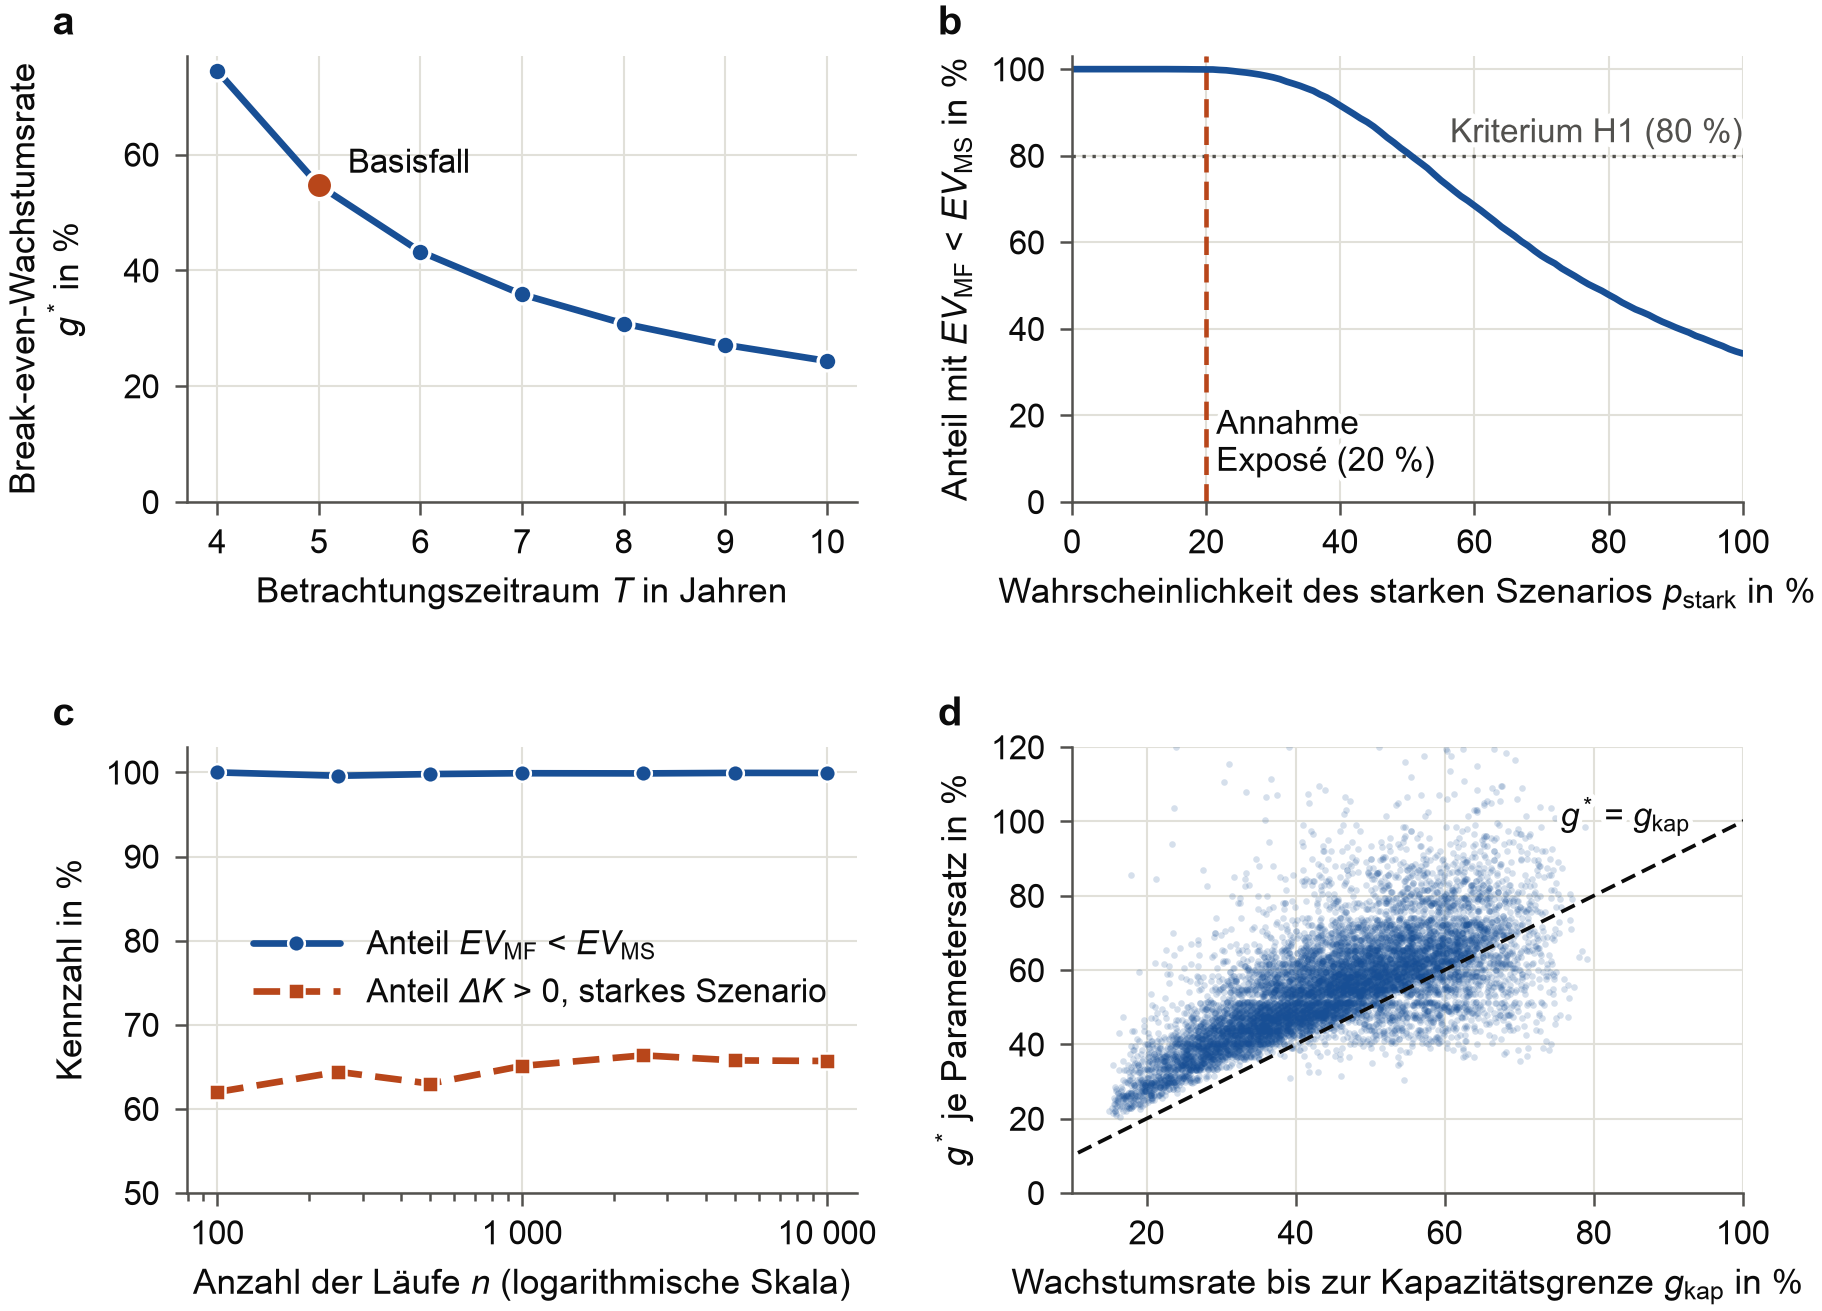
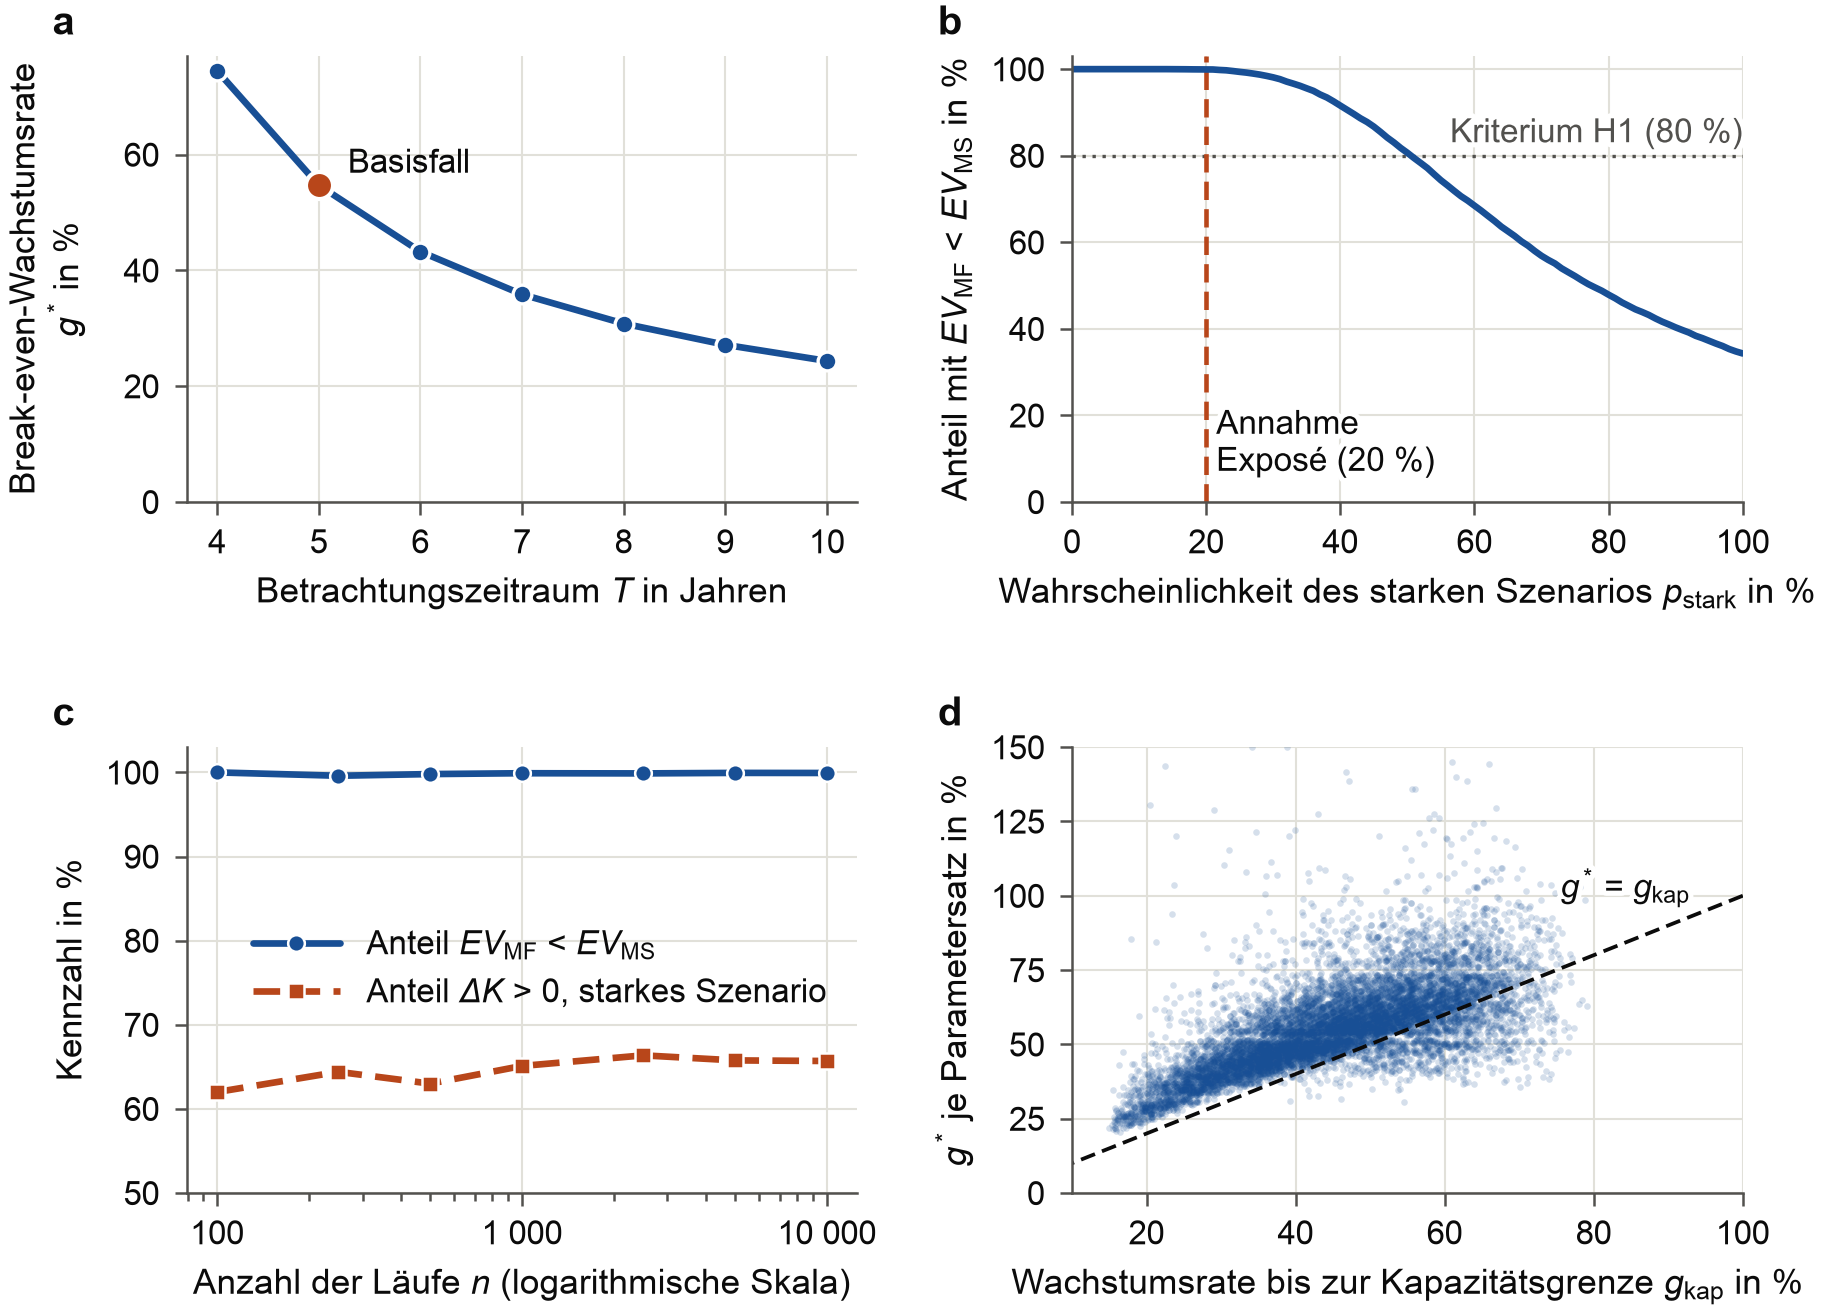
docs: v1.1.1 presentation fixes in tables, figure and documentation
- table captions and cells: full stops instead of semicolons, H2 interval
  named as Monte Carlo confidence interval, references to the full table
  of variants, macros for the base-case cost breakdown and the share
  amortising within ten years
- robustness figure panel d: y axis up to 150 %
- README, CHANGELOG, CITATION.cff and .zenodo.json for version 1.1.1

Model logic and all result data are unchanged (SHA256SUMS verified).

diff --git a/src/tables.py b/src/tables.py
@@ -132,7 +132,7 @@ def tab_szenarien(r):
   \centering
   \caption[Barwertige Gesamtkosten je Szenario]{{Barwertige Gesamtkosten je Szenario und
     szenariogewichtet (Median über {de(N_RUNS)} Parametersätze, Tsd.\,EUR).
-    $\Delta K = K_{{\mathrm{{MF}}}} - K_{{\mathrm{{MS}}}}$; positive Werte bedeuten einen
+    $\Delta K = K_{{\mathrm{{MF}}}} - K_{{\mathrm{{MS}}}}$. Positive Werte bedeuten einen
     Kostenvorteil von Microservices von Beginn.}}
   \label{{tab:szenarien}}
   \footnotesize
@@ -162,12 +162,12 @@ def tab_hypothesen(r):
         ("H1", r"Anteil der Parametersätze mit $EV_{\mathrm{MF}} < EV_{\mathrm{MS}}$ mindestens 80\,\%",
          f"{de(h['H1']['wert'], 2, True)}", h["H1"]["bestaetigt"]),
         ("H2", r"$P(\Delta K > 0 \mid g = 60\,\%)$ über 50\,\%",
-         f"{de(h['H2']['wert'], 1, True)} (95-\\%-Intervall {de(ci2['lo'], 1, True)} bis "
-         f"{de(ci2['hi'], 1, True)}); abhängig von Annahmen, siehe \\cref{{tab:robustheit}}",
+         f"{de(h['H2']['wert'], 1, True)} (95-\\%-Konfidenzintervall der Monte-Carlo-Schätzung {de(ci2['lo'], 1, True)} bis "
+         f"{de(ci2['hi'], 1, True)}), abhängig von Annahmen, siehe \\cref{{tab:robustheit_anhang}}",
          h["H2"]["bestaetigt"]),
         ("H3", r"$h$ und $\mu$ nach $|\mathrm{PRCC}|$ vor allen Parametern der laufenden Kosten",
          f"szenariogewichtet: $h$ Rang {h3['wert']['rang_h']}, $\\mu$ Rang "
-         f"{h3['wert']['rang_mu']}, $\\Phi$ Rang 1; starkes Szenario: "
+         f"{h3['wert']['rang_mu']}, $\\Phi$ Rang 1. Starkes Szenario: "
          f"$h$ Rang {st['h']}, $\\mu$ Rang {st['mu']}", h3["bestaetigt"]),
     ]
     body = "\n".join(f"    {a} & {b} & {c} & {'gestützt' if d else 'nicht gestützt'} \\\\"
@@ -229,8 +229,8 @@ def tab_robustheit(r, keys=MAIN_VARIANTS, label="tab:robustheit", appendix=False
     return HEADER + rf"""\begin{{table}}[htbp]
   \centering
   \caption[{cap}]{{{cap}. H1: Anteil der Parametersätze mit geringerem szenariogewichtetem
-    Erwartungswert für MF; H2: $P(\Delta K > 0)$ bei 60\,\% Wachstum; $g^*$: Wachstumsrate mit
-    50\,\% Amortisationswahrscheinlichkeit; Übergang: 20 bis 80\,\%.}}
+    Erwartungswert für MF. H2: $P(\Delta K > 0)$ bei 60\,\% Wachstum. $g^*$: Wachstumsrate mit
+    50\,\% Amortisationswahrscheinlichkeit. Übergang: 20 bis 80\,\%.}}
   \label{{{label}}}
   \footnotesize
   \begin{{tabular}}{{@{{}}>{{\raggedright\arraybackslash}}p{{9.2cm}} r r r c@{{}}}}
@@ -293,8 +293,8 @@ def tab_seeds(r):
   \centering
   \caption[Stabilität gegenüber dem Startwert]{{Kernkennzahlen bei unterschiedlichen Startwerten
     des Zufallszahlengenerators (je {de(N_RUNS)} Parametersätze). H1: Anteil der Parametersätze
-    mit geringerem szenariogewichtetem Erwartungswert für MF; H2: $P(\Delta K > 0)$ bei 60\,\%
-    Wachstum; $g^*$: Wachstumsrate mit 50\,\% Amortisationswahrscheinlichkeit.}}
+    mit geringerem szenariogewichtetem Erwartungswert für MF. H2: $P(\Delta K > 0)$ bei 60\,\%
+    Wachstum. $g^*$: Wachstumsrate mit 50\,\% Amortisationswahrscheinlichkeit.}}
   \label{{tab:seeds}}
   \footnotesize
   \begin{{tabular}}{{@{{}}l r r r c@{{}}}}
@@ -414,12 +414,23 @@ def macros(r):
                            (0.6, 10.0, "SechzigZehn")):
         gi, hi = heat["g"].index(gv), heat["h"].index(hv)
         m[f"heatP{name}"] = de(heat["P"][hi][gi], 0, True)
+    # Kostenzerlegung bei den wahrscheinlichsten Parameterwerten (Kap. 4.1)
+    bf = r["basisfall"]
+    lo, hi = bf["niedrig"], bf["stark"]
+    m["bfNiedrigDiff"] = eur_tsd(lo["MS"]["gesamt"] - lo["MF"]["gesamt"])
+    m["bfNiedrigInfra"] = eur_tsd(lo["MS"]["infrastruktur"] - lo["MF"]["infrastruktur"])
+    m["bfNiedrigInv"] = eur_tsd(lo["MS"]["investition"] - lo["MF"]["investition"])
+    m["bfNiedrigWart"] = eur_tsd(lo["MS"]["wartung"] - lo["MF"]["wartung"])
+    m["bfStarkStart"] = de(hi["migrationsstart_jahr"], 1)
+    m["bfStarkDiff"] = eur_tsd(hi["MF"]["gesamt"] - hi["MS"]["gesamt"])
+    m["bfStarkMig"] = eur_tsd(hi["MF"]["skalierung_migration"])
     # Plausibilisierung: Amortisationsdauer (Jahre) bei 60 % und 100 % Wachstum
     for key, name in (("0.60", "Stark"), ("1.00", "Hundert")):
         am = r["amortisationsdauer"][key]
         m[f"amort{name}Zwei"] = share(am["anteil_bis_2_jahre"])
         m[f"amort{name}Drei"] = share(am["anteil_bis_3_jahre"])
         m[f"amort{name}Fuenf"] = share(am["anteil_bis_5_jahre"])
+        m[f"amort{name}Zehn"] = de(am["anteil_bis_10_jahre"], 0, True)
         m[f"amort{name}Median"] = de(am["dauer_amortisierender"]["median"], 1)
         m[f"amort{name}Qfuenf"] = de(am["dauer_amortisierender"]["q05"], 1)
         m[f"amort{name}Qneunfuenf"] = de(am["dauer_amortisierender"]["q95"], 1)

diff --git a/src/figures.py b/src/figures.py
@@ -387,12 +387,13 @@ def fig_anhang():
     okb = ~np.isnan(be["g_star"])
     a.scatter(be["g_cap"][okb], be["g_star"][okb], s=2.5, color=BLUE, alpha=0.18,
               linewidths=0, rasterized=True)
-    lim = [0, 1.2]
+    lim = [0, 1.5]
     a.plot(lim, lim, color=INK, linestyle=(0, (4, 2)), linewidth=0.9)
     a.text(0.93, 0.96, r"$g^{\!*}$ = $g_{\mathrm{kap}}$", fontsize=FS_S, ha="right", va="bottom",
            rotation=0, path_effects=HALO)
     a.set_xlim(0.1, 1.0)
-    a.set_ylim(0, 1.2)
+    a.set_ylim(0, 1.5)
+    a.yaxis.set_major_locator(MultipleLocator(0.25))
     a.set_xlabel(r"Wachstumsrate bis zur Kapazitätsgrenze $g_{\mathrm{kap}}$ in %")
     a.set_ylabel(r"$g^{\!*}$ je Parametersatz in %")
     fmt_pct(a, "x")

diff --git a/README.md b/README.md
@@ -45,7 +45,7 @@ Das Modell vergleicht die barwertigen architekturbedingten Kosten beider Vorgehe
 
 - **Microservices von Beginn (MS):** höhere Anfangsinvestition, Wartungs- und Plattformkosten,
   dafür Skalierung in Kapazitätsstufen.
-- **Monolith first mit Migrationsoption (MF):** günstiger Start; erreicht die Nutzerzahl die
+- **Monolith first mit Migrationsoption (MF):** günstiger Start. Erreicht die Nutzerzahl die
   Kapazitätsgrenze des Monolithen, folgt eine Migration mit Parallelbetrieb.
 
 Fünfzehn unsichere Kostenparameter werden aus Beta-PERT-Verteilungen gezogen. Die
@@ -63,9 +63,9 @@ Basisfall, 10 000 Parametersätze. Einordnung, Grenzen und alle Varianten stehen
 | *g\** über alle Modell- und Parametervarianten | ≈ 32–65 % p. a. |
 | *g\** bei zehn Jahren Horizont | ≈ 24 % p. a. |
 | Einflussreichste Größen (Varianzanteil) | Plattform-Grundlast, Kapazitätsreserve, Wartungsmehraufwand, Infrastrukturkosten |
-| Amortisationsdauer bei 60 % Wachstum (Median, 90-%-Intervall) | 4,7 Jahre (3,3–6,2); innerhalb von 3 Jahren in 2,6 % der Parametersätze |
-| Amortisationsdauer bei 100 % Wachstum (Median, 90-%-Intervall) | 3,3 Jahre (2,4–4,3); innerhalb von 3 Jahren in 29,2 % |
-| Praxisangaben zum Vergleich (Plausibilisierung) | 2–3 Jahre (Taibi et al., 2017, S. 30); unter 5 Jahren erwartet (Gouigoux & Tamzalit, 2017, S. 65) |
+| Amortisationsdauer bei 60 % Wachstum (Median, 90-%-Intervall) | 4,7 Jahre (3,3–6,2), innerhalb von 3 Jahren in 2,6 % der Parametersätze |
+| Amortisationsdauer bei 100 % Wachstum (Median, 90-%-Intervall) | 3,3 Jahre (2,4–4,3), innerhalb von 3 Jahren in 29,2 % |
+| Praxisangaben zum Vergleich (Plausibilisierung) | 2–3 Jahre (Taibi et al., 2017, S. 30), unter 5 Verkaufsjahren nach dreijähriger Neuentwicklung erwartet (Gouigoux & Tamzalit, 2017, S. 62, 65) |
 | Stabilität gegenüber dem Startwert (5 Startwerte) | H1 99,82–99,93 %, H2 65,5–66,1 %, *g\** 54,6–54,7 % |
 
 <p align="center">
@@ -78,12 +78,12 @@ Basisfall, 10 000 Parametersätze. Einordnung, Grenzen und alle Varianten stehen
   <img src="output/figures/abb_heatmap.png" width="820"
        alt="Heatmap mit der Wachstumsrate auf der x-Achse und der Kapazitätsreserve des Monolithen (2- bis 20-fache Ausgangslast) auf der y-Achse. Dunklere Felder bedeuten einen höheren Anteil mit Kostenvorteil für Microservices. Die 50-Prozent-Linie verschiebt sich mit größerer Kapazitätsreserve von etwa 23 zu etwa 69 Prozent Wachstum.">
 </p>
-<p align="center"><sub><b>Abb. 2</b> Anteil der Parametersätze mit Kostenvorteil für Microservices nach Wachstumsrate und Kapazitätsreserve; Isolinien bei 20, 50 und 80 %.</sub></p>
+<p align="center"><sub><b>Abb. 2</b> Anteil der Parametersätze mit Kostenvorteil für Microservices nach Wachstumsrate und Kapazitätsreserve. Isolinien bei 20, 50 und 80 %.</sub></p>
 
 ## Exakte Replikation
 
 Alle Zufallszahlen stammen aus einem festen Startwert (`SEED` in
-[`src/params.py`](src/params.py)); alle Pakete sind in [`requirements.txt`](requirements.txt)
+[`src/params.py`](src/params.py)). Alle Pakete sind in [`requirements.txt`](requirements.txt)
 gepinnt. Ein frischer Lauf erzeugt die Ergebnisdaten **byte-identisch** zum veröffentlichten Stand.
 
 ```bash
@@ -126,7 +126,7 @@ mit Migrationsoption* [Software]. Zenodo. https://doi.org/10.5281/zenodo.2298324
 
 Die DOI steht für alle Versionen und führt immer zur neuesten. Für eine bestimmte Version die
 Versions-DOI von der [Zenodo-Seite](https://doi.org/10.5281/zenodo.22983244) verwenden.
-Maschinenlesbare Angaben: [`CITATION.cff`](CITATION.cff); GitHub zeigt dazu rechts
+Maschinenlesbare Angaben: [`CITATION.cff`](CITATION.cff). GitHub zeigt dazu rechts
 „Cite this repository“ an.
 
 ## English summary

diff --git a/CHANGELOG.md b/CHANGELOG.md
@@ -2,7 +2,16 @@
 
 Alle nennenswerten Änderungen. Versionen folgen [Semantic Versioning](https://semver.org/lang/de/).
 
-## [1.1.0] – 2026-09-27
+## [1.1.1] (2026-09-27)
+
+Modelllogik und alle Ergebniswerte sind unverändert. Geändert haben sich nur Darstellungen.
+
+- Tabellen: Zeichensetzung der Beschriftungen, Konfidenzintervall der Monte-Carlo-Schätzung
+  bei H2 ausdrücklich benannt, Verweise auf die Gesamttabelle der Varianten, Makros für die
+  Kostenzerlegung bei wahrscheinlichsten Werten und den Anteil der Amortisation binnen zehn Jahren
+- Abbildung zur Robustheit: y-Achse im Teil d bis 150 % statt 120 %
+
+## [1.1.0] (2026-09-27)
 
 Modelllogik und alle Ergebniswerte aus 1.0.0 sind unverändert.
 
@@ -11,17 +20,17 @@ Modelllogik und alle Ergebniswerte aus 1.0.0 sind unverändert.
   (`experiments.amortization_time`), zur Plausibilisierung gegen Praxisangaben
 - Stabilität der Kernkennzahlen gegenüber dem Startwert mit fünf Startwerten
   (`experiments.seed_stability`)
-- `SHA256SUMS` für alle Ergebnisdateien; GitHub-Actions-Workflows für Tests und Replikation;
-  `pytest.ini` (Tests laufen mit `pytest` und `python -m pytest`); `.python-version`
+- `SHA256SUMS` für alle Ergebnisdateien, GitHub-Actions-Workflows für Tests und Replikation,
+  `pytest.ini` (Tests laufen mit `pytest` und `python -m pytest`) und `.python-version`
 
 ### Geändert
 - Deterministische Ausgabe: Python-Version, Plattform und Laufzeit stehen nicht mehr in
-  `results.json`, sondern in `output/data/lauf.json` (nicht versioniert); `ziehungen.csv.gz` wird
+  `results.json`, sondern in `output/data/lauf.json` (nicht versioniert). `ziehungen.csv.gz` wird
   ohne Zeitstempel geschrieben. Dadurch sind alle Ergebnisdateien über Läufe und Rechner hinweg
   byte-identisch.
 - README mit Kernergebnissen, Abbildungen und Anleitung zur exakten Replikation
 - Kurs-, Hochschul- und ORCID-Angaben in `CITATION.cff` und `.zenodo.json`
 
-## [1.0.0] – 2026-09-26
+## [1.0.0] (2026-09-26)
 
 - Erste veröffentlichte Fassung, Grundlage der Projektarbeit
